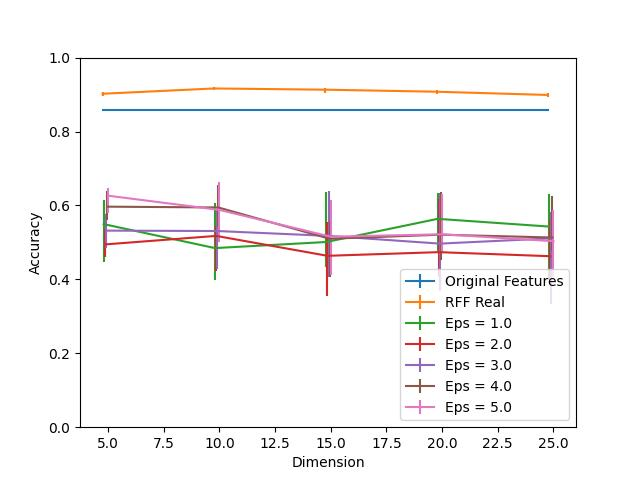
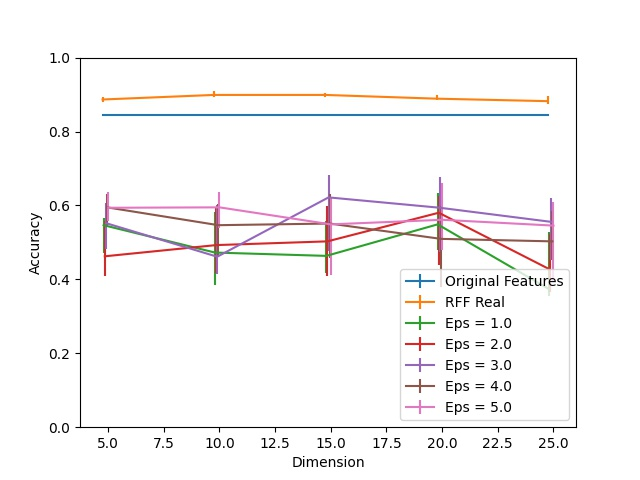
Rerun experiments for epileptic, covtype to use the right eps membership

Changed region(s): [[0.1562, 0.375, 0.875, 0.625], [0.1562, 0.1562, 0.875, 0.25], [0.8438, 0.5938, 0.875, 0.625]]

diff --git a/multi-dim-featcreation/Submission_Plots/Replot.py b/multi-dim-featcreation/Submission_Plots/Replot.py
@@ -2,24 +2,24 @@ import matplotlib.pyplot as plt
 import pandas as pd
 import numpy as np
 
-algs = ['LogisticRegression']
+algs = ['AdaBoost']
 num_trials = 25
 total_eps_list = [1.0, 2.0, 3.0, 4.0, 5.0]
 for alg in algs:
-	file = 'mnist49_pca_centered_%s_trials=%i' % (alg.lower(), num_trials)
+	file = 'epilepticjoin_pca_%s_trials=%i' % (alg.lower(), num_trials)
 	alg_df = pd.read_csv('%s.csv' % file)
 	alg_df = alg_df.set_index('Dimension')
 	print(alg_df)
 
 	shift = -0.25
 	# Edit!
-	plt.ylim((0.45, 1.05))
+	plt.ylim((0.25, 1.05))
 	plt.errorbar(alg_df.index + shift, alg_df['Original Features'], \
 		yerr = np.zeros(shape = (2, len(alg_df))), label = 'Original Features', linestyle = 'dashed')
 	plt.errorbar(alg_df.index + shift, alg_df['PCA'], \
-		yerr = np.zeros(shape = (2, len(alg_df))), label = 'PCA (No Privacy)')
+	 	yerr = np.zeros(shape = (2, len(alg_df))), label = 'PCA (No Privacy)')
 	# plt.errorbar(alg_df.index + shift, alg_df['RFF Real'], \
-	#	yerr = alg_df[['RFF Real 25', 'RFF Real 75']].to_numpy().T, label = 'Real RFFs (No Privacy)')
+	#  	yerr = alg_df[['RFF Real 25', 'RFF Real 75']].to_numpy().T, label = 'Real RFFs (No Privacy)')
 	shift += 0.05
 	for total_eps in total_eps_list:
 		if total_eps == 2.0 or total_eps == 4.0:
@@ -30,7 +30,7 @@ for alg in algs:
 
 	plt.xlabel("# Principal Components")
 	plt.ylabel("Accuracy")
-	plt.title('Accuracy of LogisticRegression on MNIST 4/9 (PCA)')
-	plt.legend(loc = "center right")
+	plt.title('Accuracy of AdaBoost on Epilepsy Dataset (PCA)')
+	plt.legend(loc = "upper right")
 	plt.savefig('%s.jpg' % file)
 	plt.close()

diff --git a/multi-dim-featcreation/covtype67_all_experiments/covtype67_privaterff_real.py b/multi-dim-featcreation/covtype67_all_experiments/covtype67_privaterff_real.py
@@ -109,7 +109,7 @@ if __name__ == "__main__":
 
 	sketch_dim = [5, 10, 15, 20, 25]
 	total_eps_list = [1.0, 2.0, 3.0, 4.0, 5.0]
-	algs = ['AdaBoost']
+	algs = ['RandomForest']
 
 	trial_dict = {}
 	loss_dict = {}
@@ -154,7 +154,7 @@ if __name__ == "__main__":
 				eps_val = total_eps # - eps_memb
 
 				dp_join = DP_Join(eps_memb, eps_val, sens_list) 
-				dp_join.join(l_train, f_train_rff, 'Real Clip') 
+				dp_join.join(l_train, f_train_rff, 'Real') 
 
 				for alg in algs:
 					trial_dict[alg]['Eps = %s' % total_eps].append(get_loss(dp_join.features, dp_join.labels, f_test_rff, l_test, alg))
@@ -177,7 +177,7 @@ if __name__ == "__main__":
 		alg_df = alg_df 
 		print(alg_df)
 
-		file = 'covtype67_rffrealclip_%s_trials=%i' % (alg.lower(), num_trials)
+		file = 'covtype67_rffreal_%s_trials=%i' % (alg.lower(), num_trials)
 		alg_df.to_csv('%s.csv' % file)
 		shift = -0.25
 		plt.ylim((0.0, 1.0))

diff --git a/multi-dim-featcreation/covtype67_all_experiments/covtype67join_privatepca.py b/multi-dim-featcreation/covtype67_all_experiments/covtype67join_privatepca.py
@@ -123,10 +123,6 @@ if __name__ == "__main__":
 	l_test = l_test.replace(6, -1)
 	l_test = l_test.replace(7, 1)
 
-	f_mean = np.mean(f_train, axis = 0, keepdims = True).reshape((-1, f_train.shape[1]))
-	f_train = f_train - f_mean
-	f_test = f_test - f_mean
-
 	sketch_dim = [5, 10, 15, 20, 25]
 	num_iters = 50
 	eps_pca = 1000 # 0.1
@@ -163,8 +159,8 @@ if __name__ == "__main__":
 		for total_eps in total_eps_list:
 			print('Total Eps = %s' % str(total_eps))
 			# eps = total_eps - eps_pca
-			eps_memb = total_eps / (dim + 1)
-			eps_val = total_eps - eps_memb
+			eps_memb = 1000 #total_eps / (dim + 1)
+			eps_val = total_eps - total_eps / (dim + 1)
 			
 			for alg in algs:
 				trial_dict[alg] = []

diff --git a/multi-dim-featcreation/epileptic/epilepticjoin_privatepca.py b/multi-dim-featcreation/epileptic/epilepticjoin_privatepca.py
@@ -164,8 +164,8 @@ if __name__ == "__main__":
 		for total_eps in total_eps_list:
 			print('Total Eps = %s' % str(total_eps))
 			# eps = total_eps - eps_pca
-			eps_memb = total_eps / (dim + 1)
-			eps_val = total_eps - eps_memb
+			eps_memb = 1000
+			eps_val = total_eps - total_eps / (dim + 1)
 			
 			for alg in algs:
 				trial_dict[alg] = []
@@ -199,7 +199,7 @@ if __name__ == "__main__":
 		alg_df = alg_df
 		print(alg_df)
 
-		file = 'epilepticjoin_pca_%s_trials=%i' % (alg.lower(), num_trials)
+		file = 'epilepticjoinmembperfect_pca_%s_trials=%i' % (alg.lower(), num_trials)
 		alg_df.to_csv('%s.csv' % file)
 		shift = -0.25
 		plt.ylim((0.0, 1.0))

diff --git a/multi-dim-featcreation/covtype67_all_experiments/covtype67join_privaterff_real.py b/multi-dim-featcreation/covtype67_all_experiments/covtype67join_privaterff_real.py
@@ -165,8 +165,8 @@ if __name__ == "__main__":
 			sens_list = [2 ** (0.5) for i in range(dim)]
 			for total_eps in total_eps_list:
 				print('Total Eps = %s' % str(total_eps))
-				eps_memb = total_eps / (dim + 1)
-				eps_val = total_eps # - eps_memb
+				eps_memb = 1000 # total_eps / (dim + 1)
+				eps_val = total_eps - total_eps / (dim + 1)
 
 				dp_join = DP_Join(eps_memb, eps_val, sens_list) 
 				dp_join.join(l_train, f_train_rff, 'Real Clip') 

diff --git a/multi-dim-featcreation/epileptic/epilepticjoin_privaterff_real.py b/multi-dim-featcreation/epileptic/epilepticjoin_privaterff_real.py
@@ -164,7 +164,7 @@ if __name__ == "__main__":
 			for total_eps in total_eps_list:
 				print('Total Eps = %s' % str(total_eps))
 				eps_memb = total_eps / (dim + 1)
-				eps_val = total_eps # - eps_memb
+				eps_val = total_eps - eps_memb
 
 				dp_join = DP_Join(eps_memb, eps_val, sens_list) 
 				dp_join.join(l_train, f_train_rff, 'Real Clip') 
